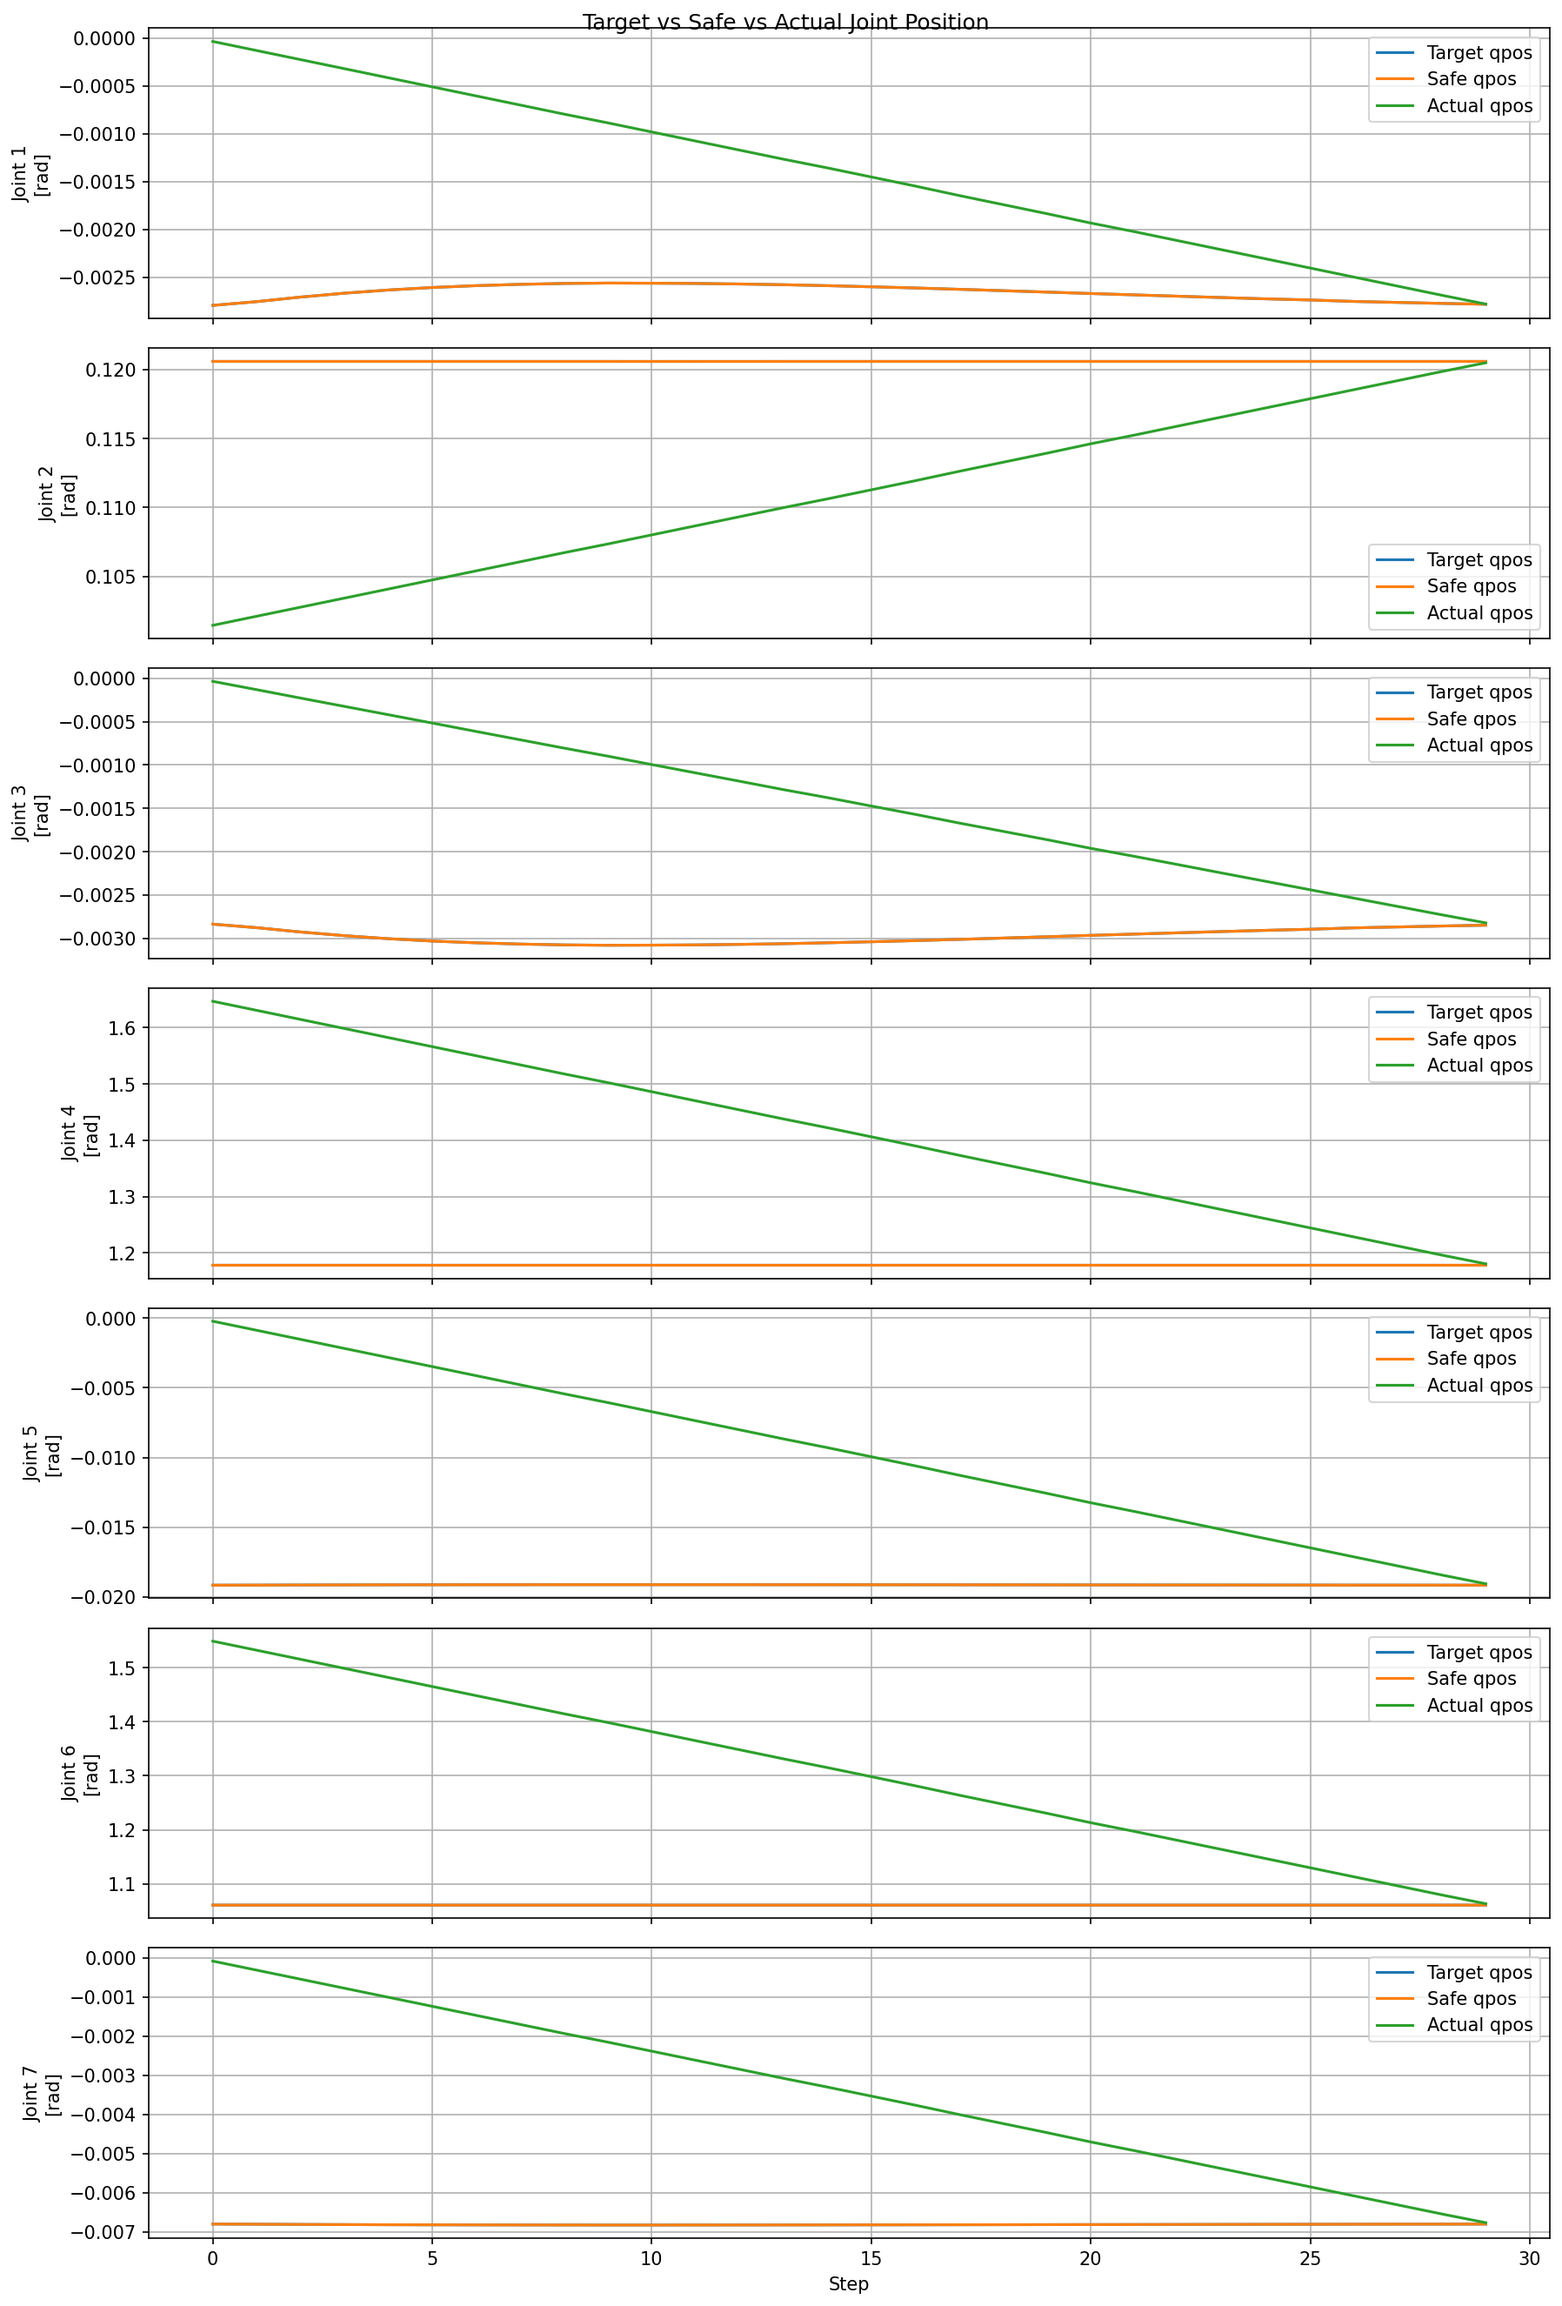
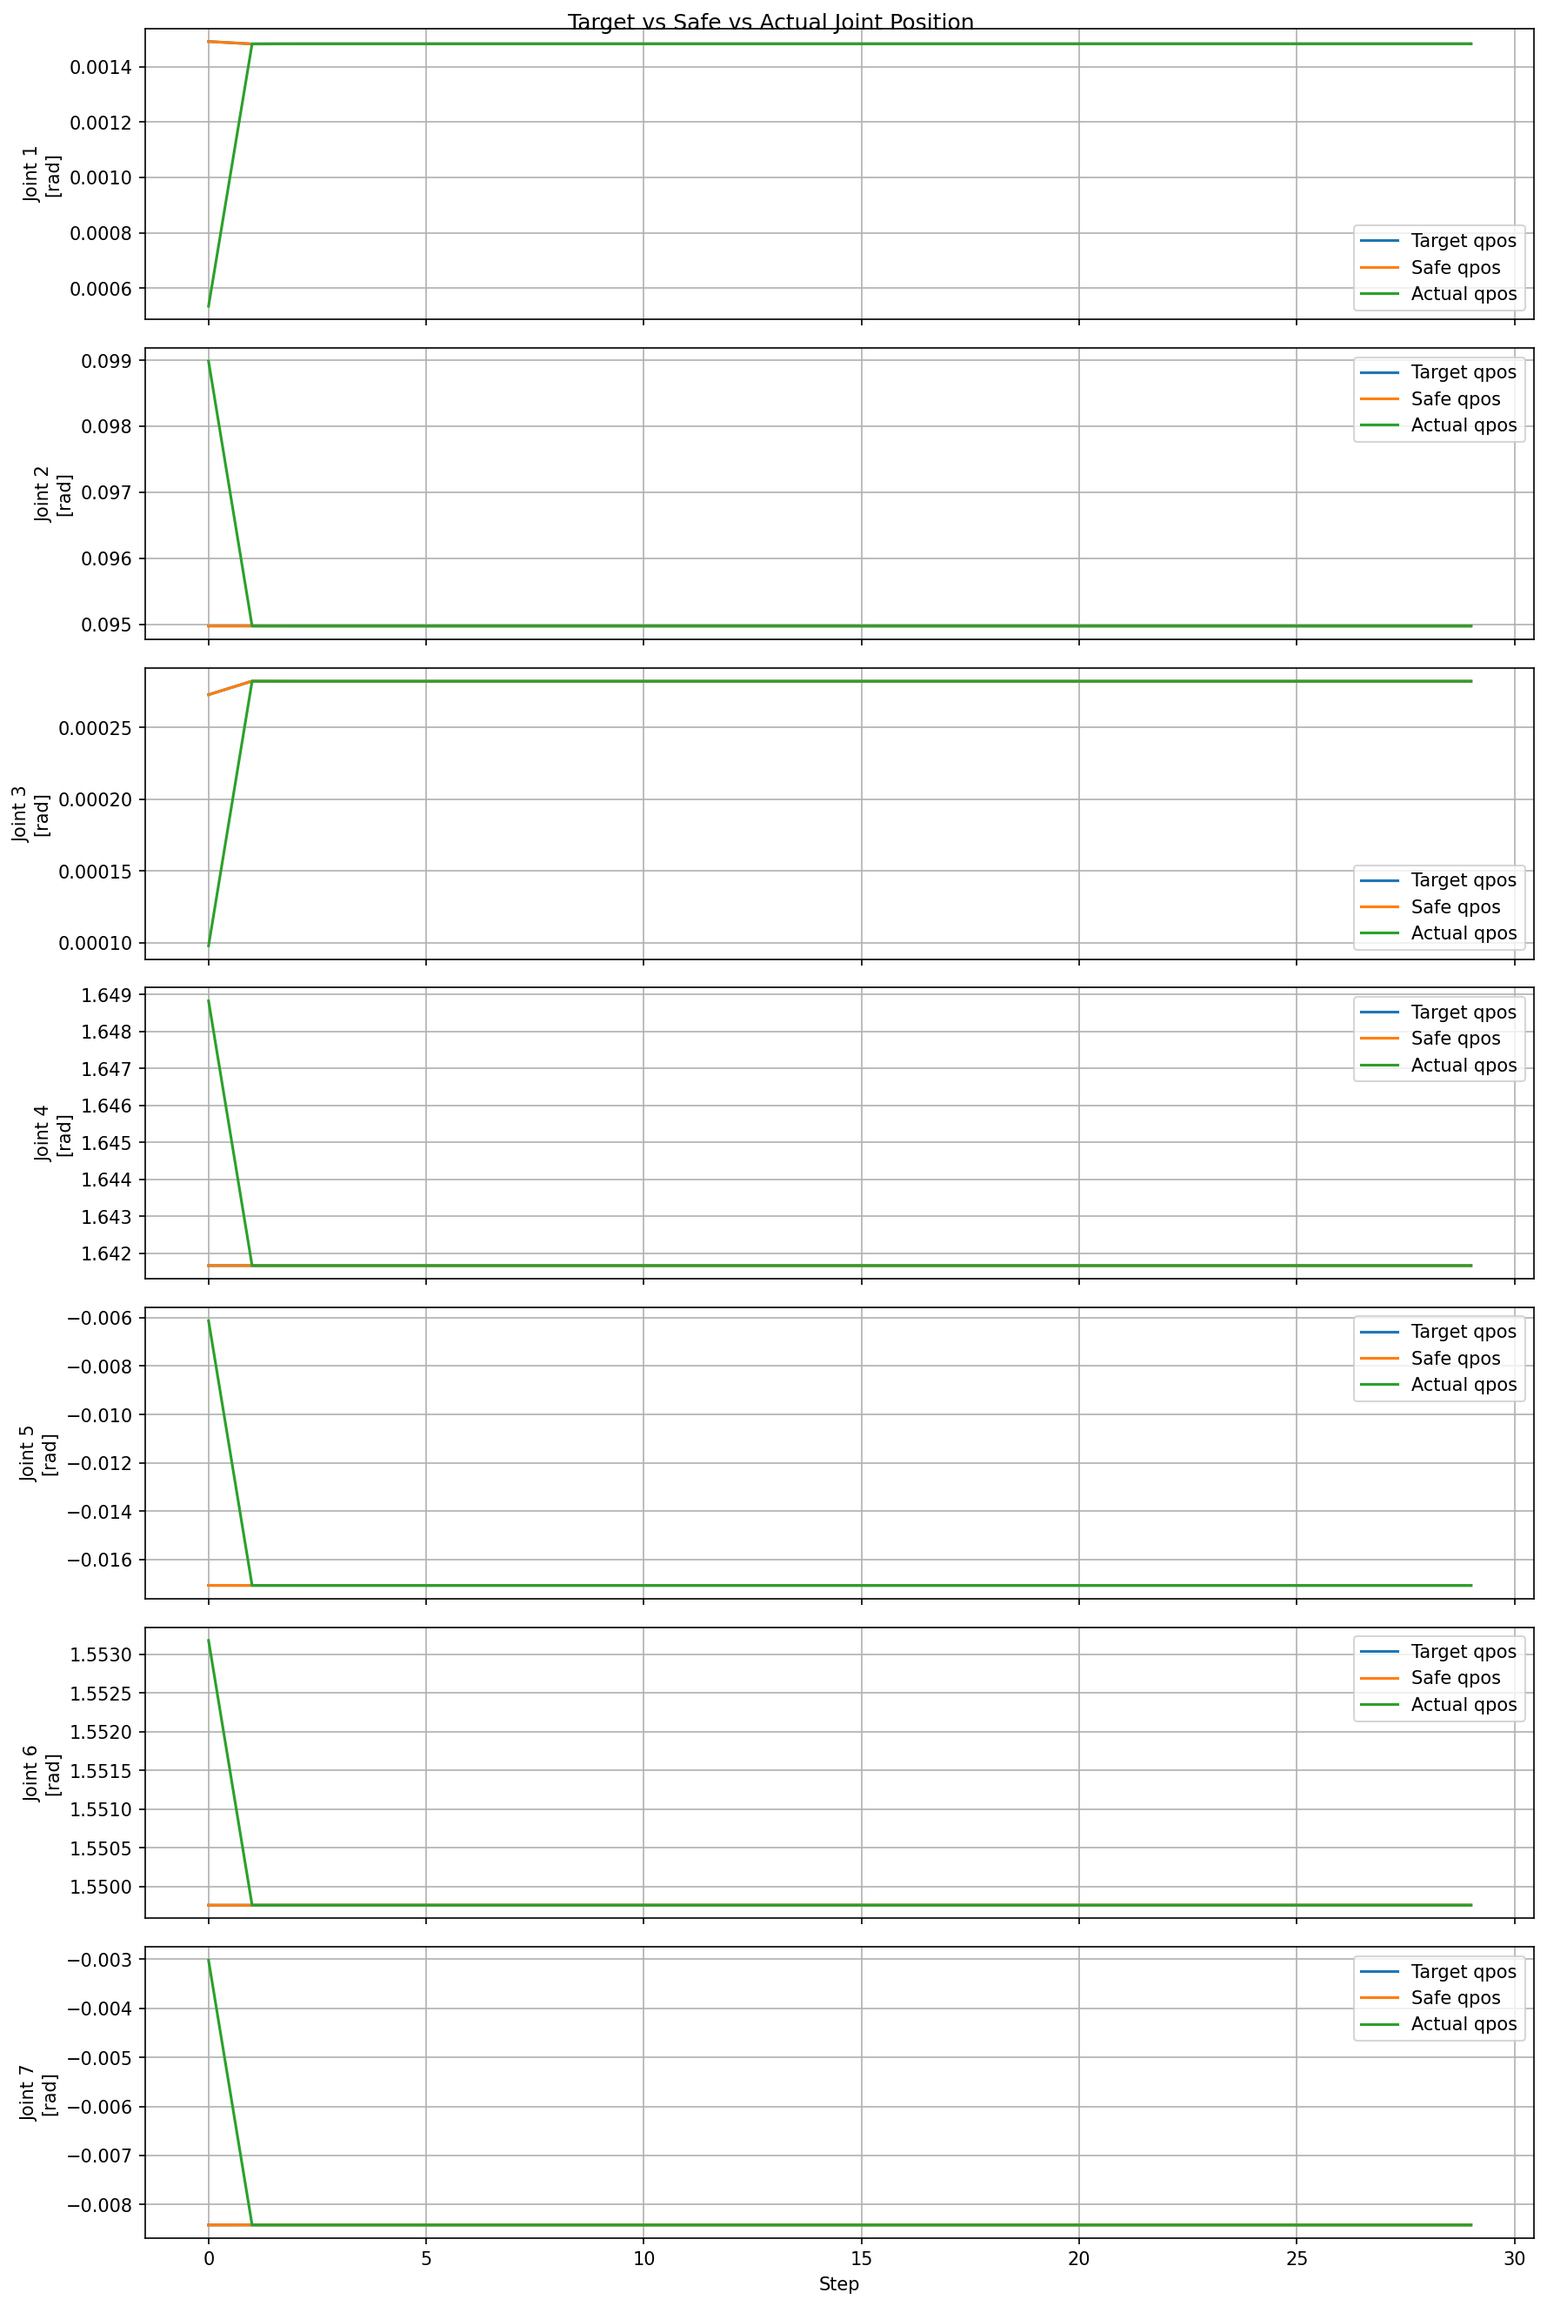
TCP offset を修正

Changed region(s): [[0.0, 0.0, 1.0, 1.0], [0.6802, 0.5877, 0.7111, 0.6186]]

diff --git a/eval_real_robot.py b/eval_real_robot.py
@@ -415,10 +415,7 @@ class XArmInferenceEnv:
         self._robot = None
         self._pipeline = None
         
-        self._ik_solver = XArm7IK(
-            "xarm_kinematics_user_lib_20251009_x86_64_fPIC_gcc9/"
-            "libxarm7_capi.so"
-        )
+        self._ik_solver = None
 
         if not self.dry_run:
             try:
@@ -437,6 +434,29 @@ class XArmInferenceEnv:
             self._robot.set_gripper_enable(True)
             self._robot.set_gripper_mode(0)
             self._robot.set_gripper_speed(int(robot_cfg.gripper.speed))
+            
+            tcp_offset = getattr(
+                self._robot,
+                "tcp_offset",
+                None,
+            )
+
+            world_offset = getattr(
+                self._robot,
+                "world_offset",
+                None,
+            )
+
+            print("SDK tcp_offset:", tcp_offset)
+            print("SDK world_offset:", world_offset)
+
+            self._ik_solver = XArm7IK(
+                "xarm_kinematics_user_lib_20251009_x86_64_fPIC_gcc9/"
+                "libxarm7_capi.so",
+                tcp_offset=tcp_offset,
+                world_offset=world_offset,
+            )  
+            
 
             pipeline = rs.pipeline()
             rs_cfg = rs.config()
@@ -606,6 +626,8 @@ class XArmInferenceEnv:
             pose = np.concatenate([target_xyz * 1000.0, target_rpy])
 
             target_gripper = float(clipped_action[7])
+            
+            # print("pose:", pose)
             
             if not self.dry_run:
                 current_qpos, _, _ = self.get_robot_state()
@@ -836,10 +858,19 @@ class XArmInferenceEnv:
 
 
 class XArm7IK:
-    def __init__(self, lib_path: str):
-        self.lib = ctypes.CDLL(str(Path(lib_path).resolve()))
+    def __init__(
+        self,
+        lib_path: str,
+        tcp_offset=None,
+        world_offset=None,
+    ):
+        self.lib = ctypes.CDLL(
+            str(Path(lib_path).resolve())
+        )
 
-        double_ptr = ctypes.POINTER(ctypes.c_double)
+        double_ptr = ctypes.POINTER(
+            ctypes.c_double
+        )
 
         self.lib.xarm7_init.argtypes = [
             double_ptr,
@@ -856,9 +887,73 @@ class XArm7IK:
         ]
         self.lib.xarm7_ik.restype = ctypes.c_int
 
-        code = self.lib.xarm7_init(None, None, None, None)
+        # init呼び出し中に配列が生存するよう、
+        # インスタンス属性として保持
+        self._tcp_offset = self._prepare_offset(
+            tcp_offset
+        )
+        self._world_offset = self._prepare_offset(
+            world_offset
+        )
+
+        tcp_ptr = self._as_pointer(
+            self._tcp_offset
+        )
+        world_ptr = self._as_pointer(
+            self._world_offset
+        )
+
+        code = self.lib.xarm7_init(
+            None,
+            None,
+            tcp_ptr,
+            world_ptr,
+        )
+
         if code != 0:
-            raise RuntimeError(f"xarm7_init failed: {code}")
+            raise RuntimeError(
+                f"xarm7_init failed: {code}"
+            )
+
+        print(
+            "IK tcp_offset:",
+            self._tcp_offset,
+        )
+        print(
+            "IK world_offset:",
+            self._world_offset,
+        )
+
+    @staticmethod
+    def _prepare_offset(offset):
+        if offset is None:
+            return None
+
+        offset = np.asarray(
+            offset,
+            dtype=np.float64,
+        ).reshape(-1)
+
+        if offset.size < 6:
+            raise ValueError(
+                "Offset must contain 6 values: "
+                "[x_mm, y_mm, z_mm, "
+                "roll, pitch, yaw]"
+            )
+
+        return np.ascontiguousarray(
+            offset[:6],
+            dtype=np.float64,
+        )
+
+    @staticmethod
+    def _as_pointer(offset):
+        if offset is None:
+            return None
+
+        return offset.ctypes.data_as(
+            ctypes.POINTER(ctypes.c_double)
+        )
 
     def solve(
         self,
@@ -879,6 +974,8 @@ class XArm7IK:
             raise RuntimeError(f"xarm7_ik failed: {code}")
 
         return theta.astype(np.float32)
+
+
 
 def _load_or_capture_goal(env, real_cfg):
     goal_path = str(real_cfg.goal_image_path or "")
